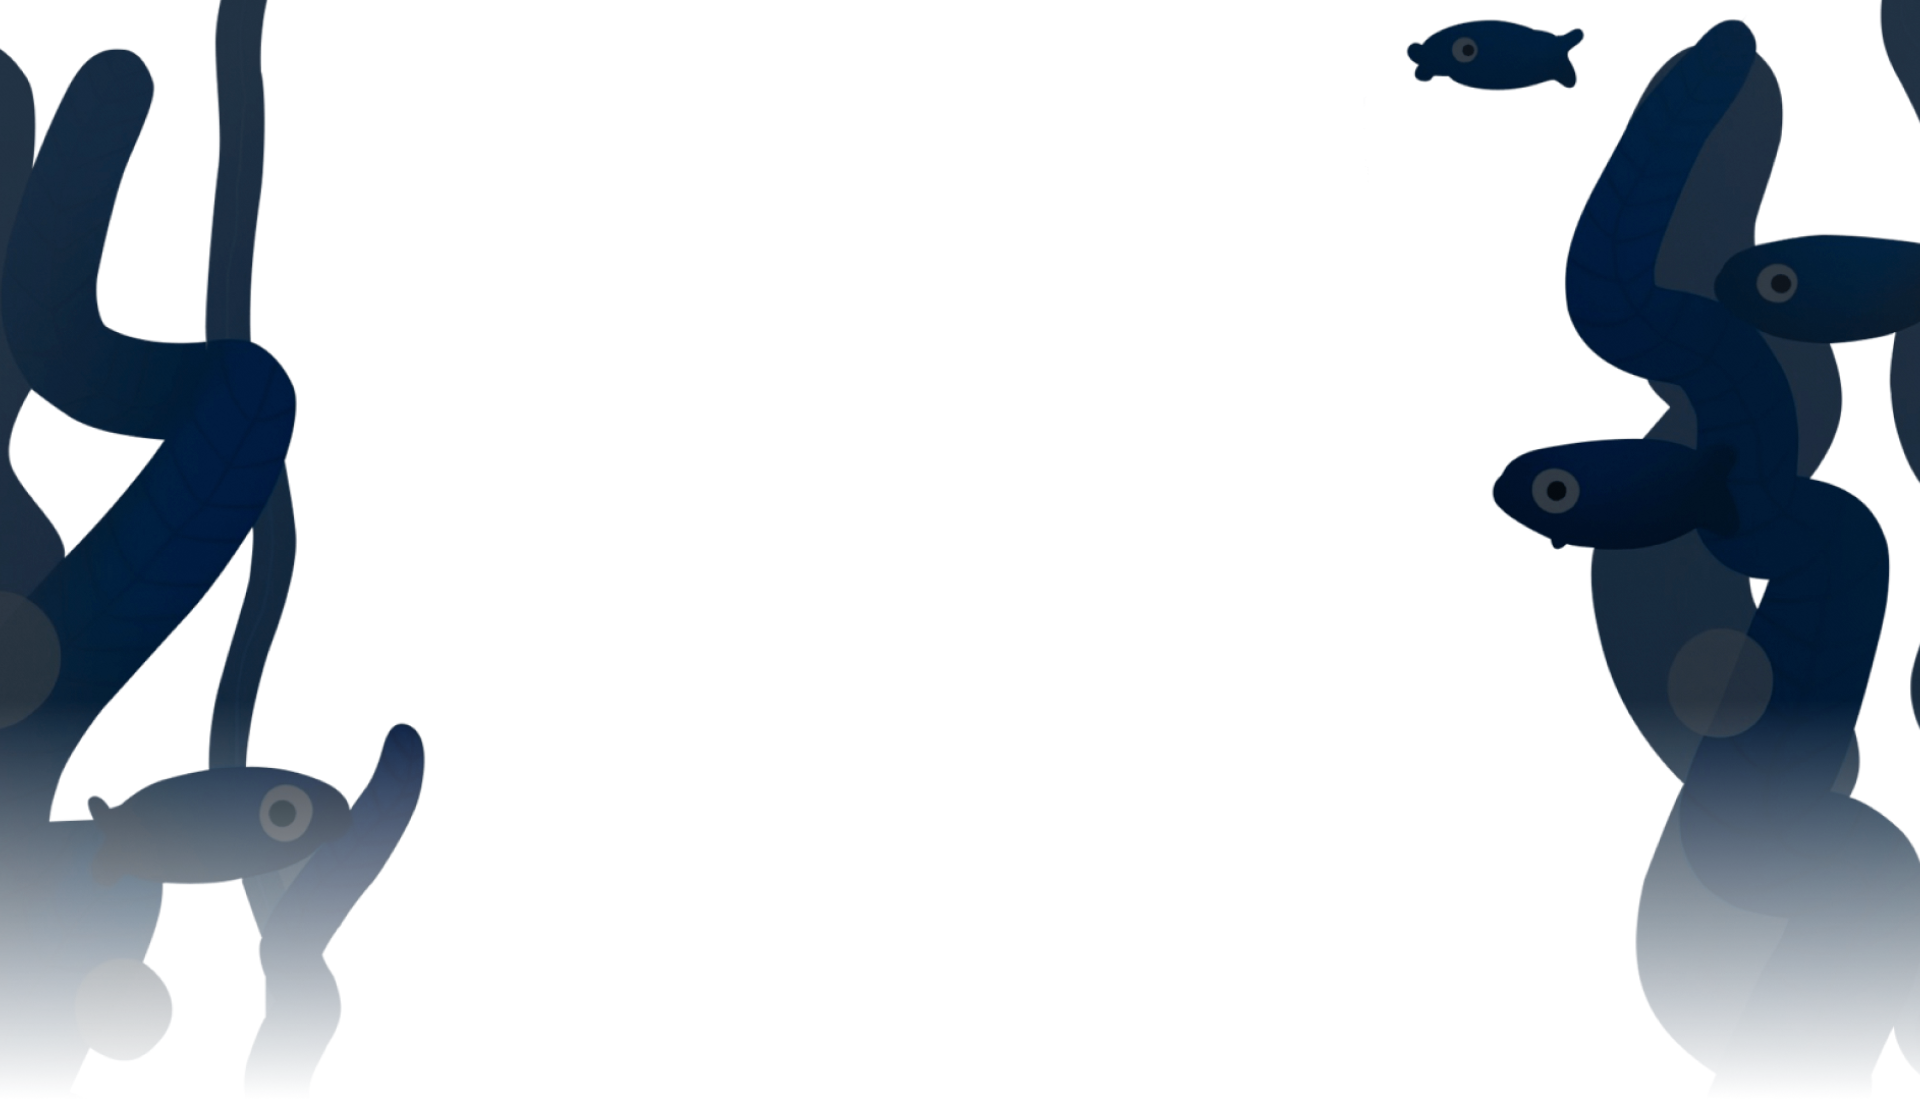
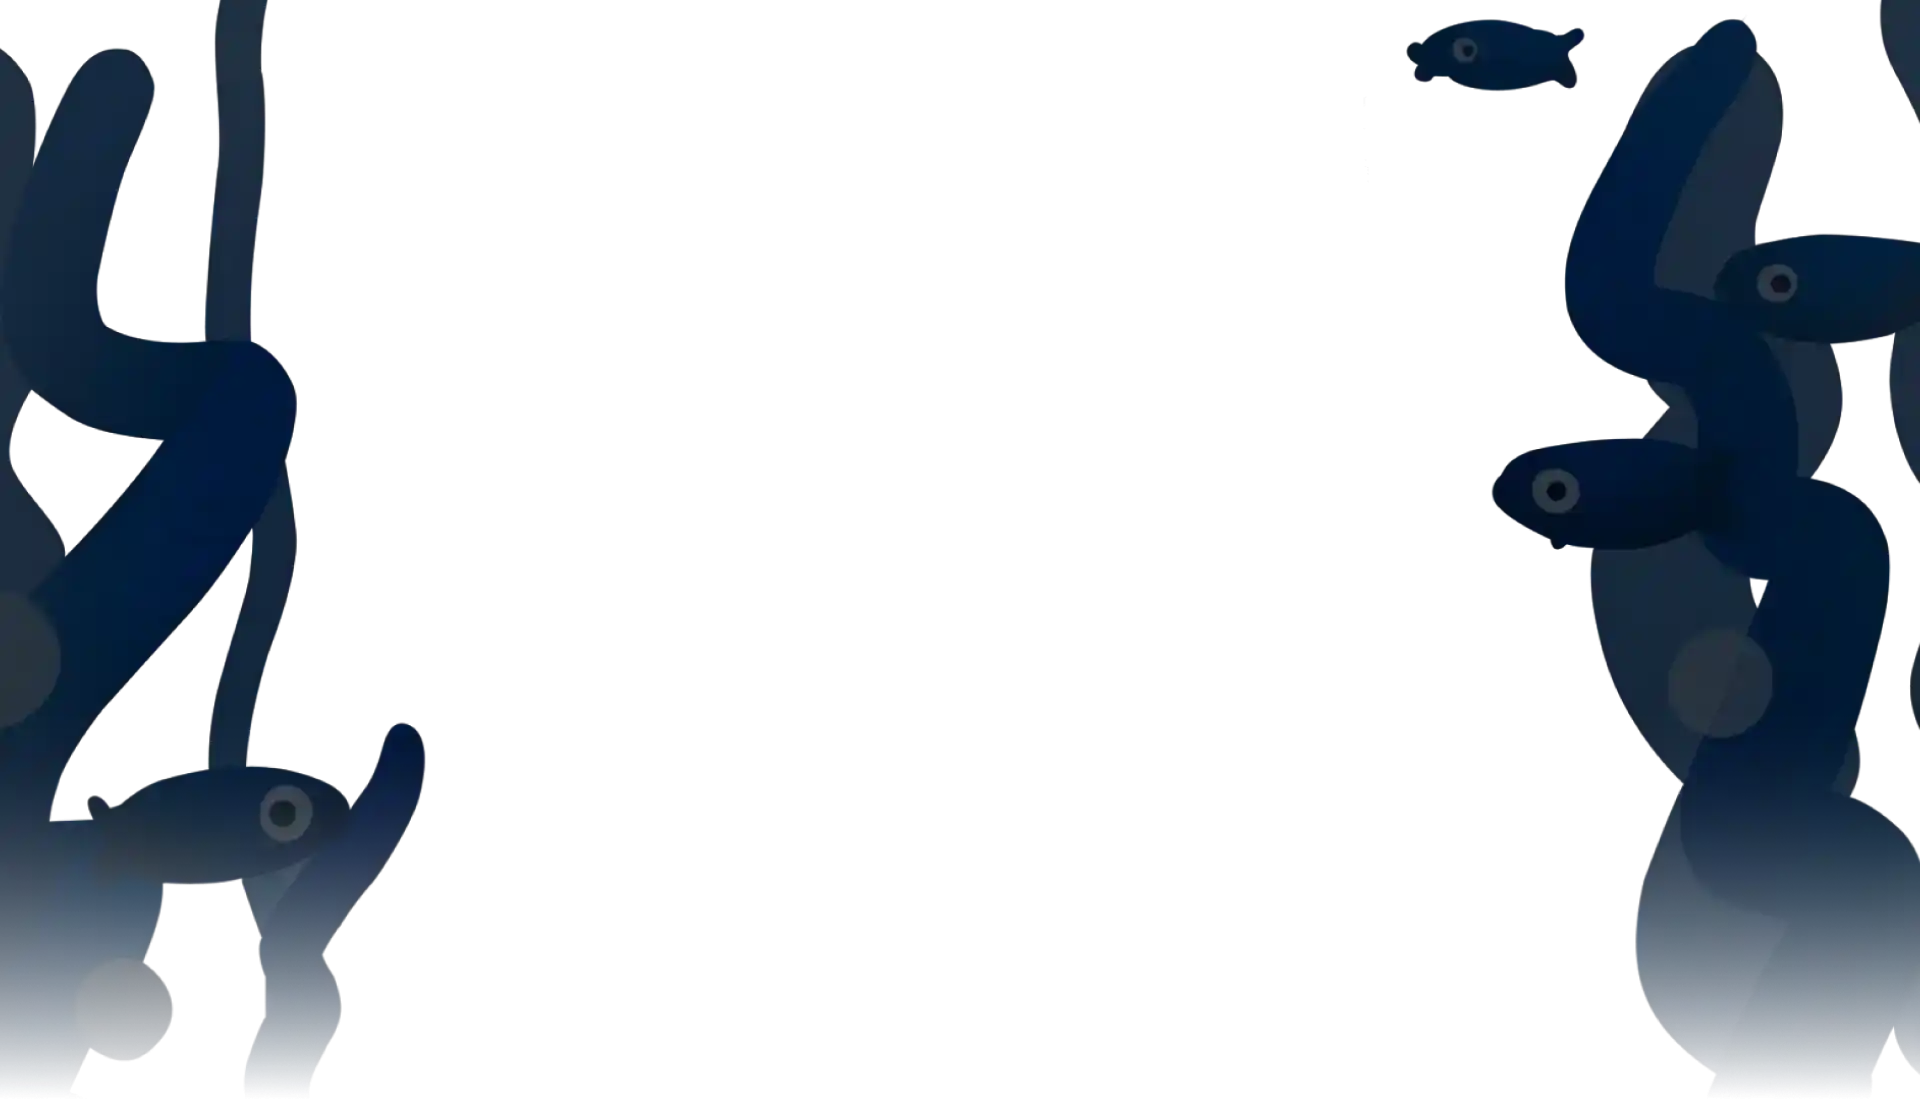
Download section dark fishes implemented

Changed region(s): [[0.0, 0.6491, 0.2188, 0.9582], [0.8438, 0.6491, 1.0, 0.9582]]

diff --git a/src/common/components/landing-page/_index.scss b/src/common/components/landing-page/_index.scss
@@ -1023,9 +1023,9 @@
       overflow: hidden;
       @include themify(night) {
         background: rgb(23,30,38);
-        background: -moz-linear-gradient(177deg, rgba(23,30,38,1) 0%, rgba(71,77,84,1) 100%);
-        background: -webkit-linear-gradient(177deg, rgba(23,30,38,1) 0%, rgba(71,77,84,1) 100%);
-        background: linear-gradient(177deg, rgba(23,30,38,1) 0%, rgba(71,77,84,1) 100%);
+        background: -moz-linear-gradient(177deg, rgba(23,30,38,1) 0%, rgb(86, 100, 116) 100%);
+        background: -webkit-linear-gradient(177deg, rgba(23,30,38,1) 0%, rgb(95, 103, 118) 100%);
+        background: linear-gradient(177deg, rgba(23,30,38,1) 0%, rgb(105, 117, 133) 100%);
         filter: progid:DXImageTransform.Microsoft.gradient(startColorstr="#171e26",endColorstr="#474d54",GradientType=1);  
       }
       @include themify(day) {
@@ -1066,9 +1066,24 @@
             right: 59px;
           }
         }
+        &.right-dark-fishes {
+          display: none;
+          bottom: 5%;
+          transform: scale(1.5);
+          @media (max-width: $lg-break) {
+            transform: scale(1);
+            right: 5%;
+          }
+        }
         @include themify(night) {
-          &.right-small, &.right-small {
-            opacity: 0.5;
+          &.right-small, &.right-big {
+            display: none;
+          }
+          &.right-dark-fishes {
+            display: inline-block;
+            @media (max-width: 766px) {
+              display: none;
+            }
           }
         }
       }
@@ -1393,9 +1408,6 @@
         width: 45%;
         height: auto;
         margin: 0;
-      }
-      p {
-        margin-top: 1.5rem;
       }
     }
     .part-bottom {
@@ -1962,6 +1974,20 @@
         }
       }
     }
+    @media (max-width: $xl-break) {
+      .part-bottom > .inner > .links-and-form > .links {
+          .first-column,
+          .second-column {
+            height: auto;
+            li {
+              margin-top: 1rem;
+            }
+          }
+          height: auto;
+        
+      }
+    }
+
     @media (max-width: $lg-break) {
       .part-top {
         .inner {
@@ -2107,16 +2133,6 @@
             }
           }
         }
-        .inner > .links-and-form > .links {
-          .first-column,
-          .second-column {
-            height: auto;
-            li {
-              margin-top: 1rem;
-            }
-          }
-          height: auto;
-        }
       }
     }
     @media (max-width: $sm-break) {
@@ -2149,16 +2165,6 @@
           font-weight: 800;
           font-size: 31px;
           line-height: 37px;
-        }
-        .inner > .links-and-form > .links {
-          .first-column,
-          .second-column {
-            height: auto;
-            li {
-              margin-top: 1rem;
-            }
-          }
-          height: auto;
         }
         .main-fish {
           right: -114px;

diff --git a/src/common/components/landing-page/index.tsx b/src/common/components/landing-page/index.tsx
@@ -58,12 +58,14 @@ const LandingPage = (props: any) => {
   const BubbleRightTop = apiBase(`/assets/bubble-right-top.${global.canUseWebp?"webp":"png"}`);
   const BubbleLRightBottom = apiBase(`/assets/bubble-right-bottom.${global.canUseWebp?"webp":"png"}`);
   const BubbleLCenter = apiBase(`/assets/bubble-center.${global.canUseWebp?"webp":"png"}`);
+  const DownloadDarkFishes = apiBase(`/assets/download-dark-fishes.${global.canUseWebp?"webp":"png"}`);
 
   // const BubbleLeftTop = require(`../../../../public/assets/bubble-left-top.png`);
   // const BubbleLeftBottom = require(`../../../../public/assets/bubble-left-bottom.png`);
   // const BubbleRightTop = require(`../../../../public/assets/bubble-right-top.png`);
   // const BubbleLRightBottom = require(`../../../../public/assets/bubble-right-bottom.png`);
   // const BubbleLCenter = require(`../../../../public/assets/bubble-center.png`);
+  // const DownloadDarkFishes = require(`../../../../public/assets/download-dark-fishes.png`);
   
 
   const FounderImg = apiBase(`/assets/good-karma.${global.canUseWebp?"webp":"jpeg"}`);
@@ -257,6 +259,7 @@ const LandingPage = (props: any) => {
             <img src={BubbleLRightBottom} alt="bubble" className="bubble-bg bubble-right-bottom"  loading="lazy"/>
 
             <img src={LeftFishes} alt="fishes" className="download-fishes left-fishes"  loading="lazy"/>           
+            <img src={DownloadDarkFishes} alt="fish" className="download-fishes right-dark-fishes"  loading="lazy"/>
             <img src={FishOne} alt="fish" className="download-fishes right-small"  loading="lazy"/>
             <img src={FishTwo} alt="fish" className="download-fishes right-big"  loading="lazy"/>
 
